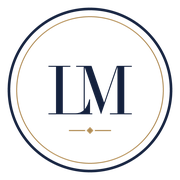
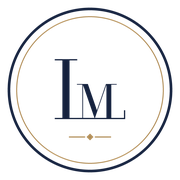
Monogramme LM : le M logé dans le L

Changed region(s): [[0.25, 0.3056, 0.75, 0.6667], [0.3889, 0.6944, 0.6111, 0.7778]]

diff --git a/index.html b/index.html
@@ -11,8 +11,8 @@
   <link rel="preconnect" href="https://fonts.googleapis.com">
   <link rel="preconnect" href="https://fonts.gstatic.com" crossorigin>
   <link href="https://fonts.googleapis.com/css2?family=Cormorant+Garamond:wght@500;600;700&family=Inter:wght@400;500;600&display=swap" rel="stylesheet">
-  <link rel="icon" type="image/png" sizes="64x64" href="images/favicon-64.png?v=1792937337">
-  <link rel="apple-touch-icon" href="images/apple-touch-icon.png?v=1792937337">
+  <link rel="icon" type="image/png" sizes="64x64" href="images/favicon-64.png?v=1792937604">
+  <link rel="apple-touch-icon" href="images/apple-touch-icon.png?v=1792937604">
   <link rel="stylesheet" href="style.css?v=1792937337">
   <script type="application/ld+json">
   {
@@ -35,7 +35,7 @@
 <body>
   <header class="site-header">
     <div class="wrap bar">
-      <a href="#accueil" class="brand"><img class="brand-logo" src="images/logo-icone.png?v=1792937337" alt="" width="44" height="44"><div>Loïck Merle <span>Avocat à la Cour</span></div></a>
+      <a href="#accueil" class="brand"><img class="brand-logo" src="images/logo-icone.png?v=1792937604" alt="" width="44" height="44"><div>Loïck Merle <span>Avocat à la Cour</span></div></a>
       <button class="burger" aria-label="Ouvrir le menu" aria-expanded="false" aria-controls="nav">☰</button>
       <nav id="nav" aria-label="Navigation principale">
         <a href="#apropos">Présentation</a>

diff --git a/application-des-peines.html b/application-des-peines.html
@@ -11,14 +11,14 @@
   <link rel="preconnect" href="https://fonts.googleapis.com">
   <link rel="preconnect" href="https://fonts.gstatic.com" crossorigin>
   <link href="https://fonts.googleapis.com/css2?family=Cormorant+Garamond:wght@500;600;700&family=Inter:wght@400;500;600&display=swap" rel="stylesheet">
-  <link rel="icon" type="image/png" sizes="64x64" href="images/favicon-64.png">
-  <link rel="apple-touch-icon" href="images/apple-touch-icon.png">
+  <link rel="icon" type="image/png" sizes="64x64" href="images/favicon-64.png?v=1792937604">
+  <link rel="apple-touch-icon" href="images/apple-touch-icon.png?v=1792937604">
   <link rel="stylesheet" href="style.css?v=1792574516">
 </head>
 <body>
   <header class="site-header">
     <div class="wrap bar">
-      <a href="index.html" class="brand"><img class="brand-logo" src="images/logo-icone.png" alt="" width="44" height="44"><div>Loïck Merle <span>Avocat à la Cour</span></div></a>
+      <a href="index.html" class="brand"><img class="brand-logo" src="images/logo-icone.png?v=1792937604" alt="" width="44" height="44"><div>Loïck Merle <span>Avocat à la Cour</span></div></a>
       <button class="burger" aria-label="Ouvrir le menu" aria-expanded="false" aria-controls="nav">☰</button>
       <nav id="nav" aria-label="Navigation principale">
         <a href="index.html#apropos">Présentation</a>

diff --git a/audition-libre.html b/audition-libre.html
@@ -11,14 +11,14 @@
   <link rel="preconnect" href="https://fonts.googleapis.com">
   <link rel="preconnect" href="https://fonts.gstatic.com" crossorigin>
   <link href="https://fonts.googleapis.com/css2?family=Cormorant+Garamond:wght@500;600;700&family=Inter:wght@400;500;600&display=swap" rel="stylesheet">
-  <link rel="icon" type="image/png" sizes="64x64" href="images/favicon-64.png">
-  <link rel="apple-touch-icon" href="images/apple-touch-icon.png">
+  <link rel="icon" type="image/png" sizes="64x64" href="images/favicon-64.png?v=1792937604">
+  <link rel="apple-touch-icon" href="images/apple-touch-icon.png?v=1792937604">
   <link rel="stylesheet" href="style.css?v=1792574516">
 </head>
 <body>
   <header class="site-header">
     <div class="wrap bar">
-      <a href="index.html" class="brand"><img class="brand-logo" src="images/logo-icone.png" alt="" width="44" height="44"><div>Loïck Merle <span>Avocat à la Cour</span></div></a>
+      <a href="index.html" class="brand"><img class="brand-logo" src="images/logo-icone.png?v=1792937604" alt="" width="44" height="44"><div>Loïck Merle <span>Avocat à la Cour</span></div></a>
       <button class="burger" aria-label="Ouvrir le menu" aria-expanded="false" aria-controls="nav">☰</button>
       <nav id="nav" aria-label="Navigation principale">
         <a href="index.html#apropos">Présentation</a>

diff --git a/comparution-immediate.html b/comparution-immediate.html
@@ -11,14 +11,14 @@
   <link rel="preconnect" href="https://fonts.googleapis.com">
   <link rel="preconnect" href="https://fonts.gstatic.com" crossorigin>
   <link href="https://fonts.googleapis.com/css2?family=Cormorant+Garamond:wght@500;600;700&family=Inter:wght@400;500;600&display=swap" rel="stylesheet">
-  <link rel="icon" type="image/png" sizes="64x64" href="images/favicon-64.png">
-  <link rel="apple-touch-icon" href="images/apple-touch-icon.png">
+  <link rel="icon" type="image/png" sizes="64x64" href="images/favicon-64.png?v=1792937604">
+  <link rel="apple-touch-icon" href="images/apple-touch-icon.png?v=1792937604">
   <link rel="stylesheet" href="style.css?v=1792574516">
 </head>
 <body>
   <header class="site-header">
     <div class="wrap bar">
-      <a href="index.html" class="brand"><img class="brand-logo" src="images/logo-icone.png" alt="" width="44" height="44"><div>Loïck Merle <span>Avocat à la Cour</span></div></a>
+      <a href="index.html" class="brand"><img class="brand-logo" src="images/logo-icone.png?v=1792937604" alt="" width="44" height="44"><div>Loïck Merle <span>Avocat à la Cour</span></div></a>
       <button class="burger" aria-label="Ouvrir le menu" aria-expanded="false" aria-controls="nav">☰</button>
       <nav id="nav" aria-label="Navigation principale">
         <a href="index.html#apropos">Présentation</a>

diff --git a/crpc-plaider-coupable.html b/crpc-plaider-coupable.html
@@ -11,14 +11,14 @@
   <link rel="preconnect" href="https://fonts.googleapis.com">
   <link rel="preconnect" href="https://fonts.gstatic.com" crossorigin>
   <link href="https://fonts.googleapis.com/css2?family=Cormorant+Garamond:wght@500;600;700&family=Inter:wght@400;500;600&display=swap" rel="stylesheet">
-  <link rel="icon" type="image/png" sizes="64x64" href="images/favicon-64.png">
-  <link rel="apple-touch-icon" href="images/apple-touch-icon.png">
+  <link rel="icon" type="image/png" sizes="64x64" href="images/favicon-64.png?v=1792937604">
+  <link rel="apple-touch-icon" href="images/apple-touch-icon.png?v=1792937604">
   <link rel="stylesheet" href="style.css?v=1792574516">
 </head>
 <body>
   <header class="site-header">
     <div class="wrap bar">
-      <a href="index.html" class="brand"><img class="brand-logo" src="images/logo-icone.png" alt="" width="44" height="44"><div>Loïck Merle <span>Avocat à la Cour</span></div></a>
+      <a href="index.html" class="brand"><img class="brand-logo" src="images/logo-icone.png?v=1792937604" alt="" width="44" height="44"><div>Loïck Merle <span>Avocat à la Cour</span></div></a>
       <button class="burger" aria-label="Ouvrir le menu" aria-expanded="false" aria-controls="nav">☰</button>
       <nav id="nav" aria-label="Navigation principale">
         <a href="index.html#apropos">Présentation</a>

diff --git a/detention-provisoire.html b/detention-provisoire.html
@@ -11,14 +11,14 @@
   <link rel="preconnect" href="https://fonts.googleapis.com">
   <link rel="preconnect" href="https://fonts.gstatic.com" crossorigin>
   <link href="https://fonts.googleapis.com/css2?family=Cormorant+Garamond:wght@500;600;700&family=Inter:wght@400;500;600&display=swap" rel="stylesheet">
-  <link rel="icon" type="image/png" sizes="64x64" href="images/favicon-64.png">
-  <link rel="apple-touch-icon" href="images/apple-touch-icon.png">
+  <link rel="icon" type="image/png" sizes="64x64" href="images/favicon-64.png?v=1792937604">
+  <link rel="apple-touch-icon" href="images/apple-touch-icon.png?v=1792937604">
   <link rel="stylesheet" href="style.css?v=1792574516">
 </head>
 <body>
   <header class="site-header">
     <div class="wrap bar">
-      <a href="index.html" class="brand"><img class="brand-logo" src="images/logo-icone.png" alt="" width="44" height="44"><div>Loïck Merle <span>Avocat à la Cour</span></div></a>
+      <a href="index.html" class="brand"><img class="brand-logo" src="images/logo-icone.png?v=1792937604" alt="" width="44" height="44"><div>Loïck Merle <span>Avocat à la Cour</span></div></a>
       <button class="burger" aria-label="Ouvrir le menu" aria-expanded="false" aria-controls="nav">☰</button>
       <nav id="nav" aria-label="Navigation principale">
         <a href="index.html#apropos">Présentation</a>

diff --git a/garde-a-vue.html b/garde-a-vue.html
@@ -11,14 +11,14 @@
   <link rel="preconnect" href="https://fonts.googleapis.com">
   <link rel="preconnect" href="https://fonts.gstatic.com" crossorigin>
   <link href="https://fonts.googleapis.com/css2?family=Cormorant+Garamond:wght@500;600;700&family=Inter:wght@400;500;600&display=swap" rel="stylesheet">
-  <link rel="icon" type="image/png" sizes="64x64" href="images/favicon-64.png">
-  <link rel="apple-touch-icon" href="images/apple-touch-icon.png">
+  <link rel="icon" type="image/png" sizes="64x64" href="images/favicon-64.png?v=1792937604">
+  <link rel="apple-touch-icon" href="images/apple-touch-icon.png?v=1792937604">
   <link rel="stylesheet" href="style.css?v=1792574516">
 </head>
 <body>
   <header class="site-header">
     <div class="wrap bar">
-      <a href="index.html" class="brand"><img class="brand-logo" src="images/logo-icone.png" alt="" width="44" height="44"><div>Loïck Merle <span>Avocat à la Cour</span></div></a>
+      <a href="index.html" class="brand"><img class="brand-logo" src="images/logo-icone.png?v=1792937604" alt="" width="44" height="44"><div>Loïck Merle <span>Avocat à la Cour</span></div></a>
       <button class="burger" aria-label="Ouvrir le menu" aria-expanded="false" aria-controls="nav">☰</button>
       <nav id="nav" aria-label="Navigation principale">
         <a href="index.html#apropos">Présentation</a>

diff --git a/mentions-legales.html b/mentions-legales.html
@@ -8,14 +8,14 @@
   <link rel="preconnect" href="https://fonts.googleapis.com">
   <link rel="preconnect" href="https://fonts.gstatic.com" crossorigin>
   <link href="https://fonts.googleapis.com/css2?family=Cormorant+Garamond:wght@500;600;700&family=Inter:wght@400;500;600&display=swap" rel="stylesheet">
-  <link rel="icon" type="image/png" sizes="64x64" href="images/favicon-64.png?v=1792937337">
-  <link rel="apple-touch-icon" href="images/apple-touch-icon.png?v=1792937337">
+  <link rel="icon" type="image/png" sizes="64x64" href="images/favicon-64.png?v=1792937604">
+  <link rel="apple-touch-icon" href="images/apple-touch-icon.png?v=1792937604">
   <link rel="stylesheet" href="style.css?v=1792937337">
 </head>
 <body>
   <header class="site-header">
     <div class="wrap bar">
-      <a href="index.html" class="brand"><img class="brand-logo" src="images/logo-icone.png?v=1792937337" alt="" width="44" height="44"><div>Loïck Merle <span>Avocat à la Cour</span></div></a>
+      <a href="index.html" class="brand"><img class="brand-logo" src="images/logo-icone.png?v=1792937604" alt="" width="44" height="44"><div>Loïck Merle <span>Avocat à la Cour</span></div></a>
       <nav><a href="index.html">← Retour au site</a></nav>
     </div>
   </header>
